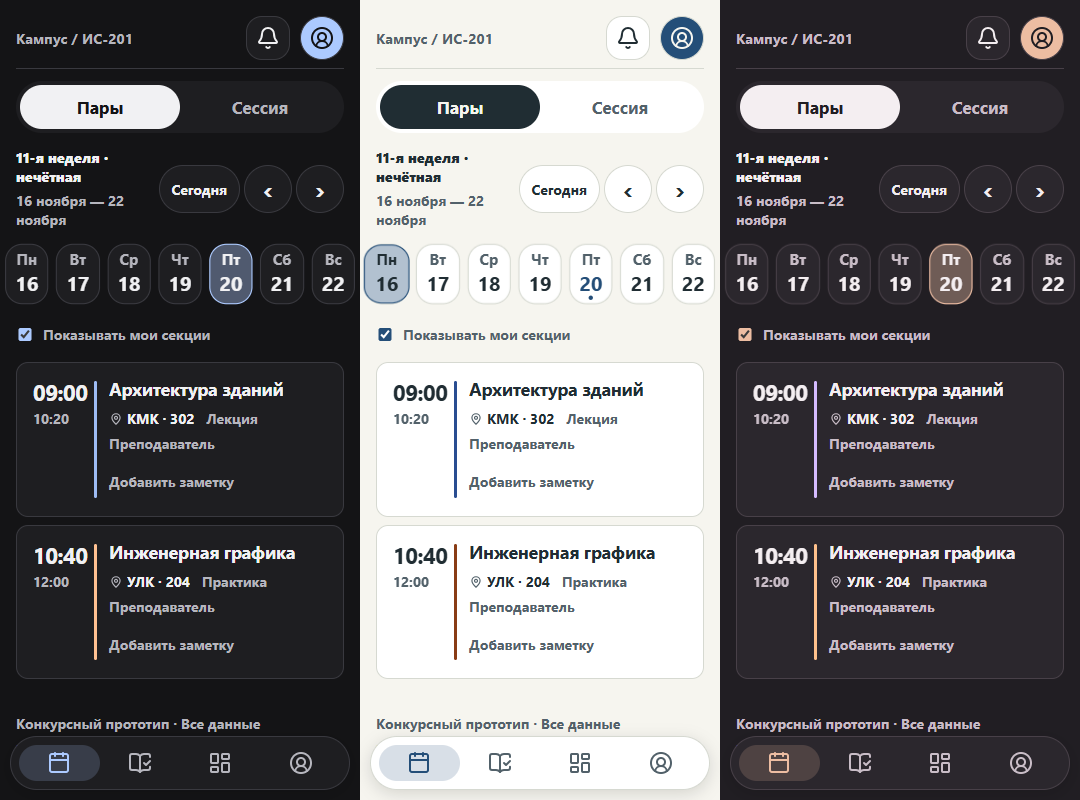
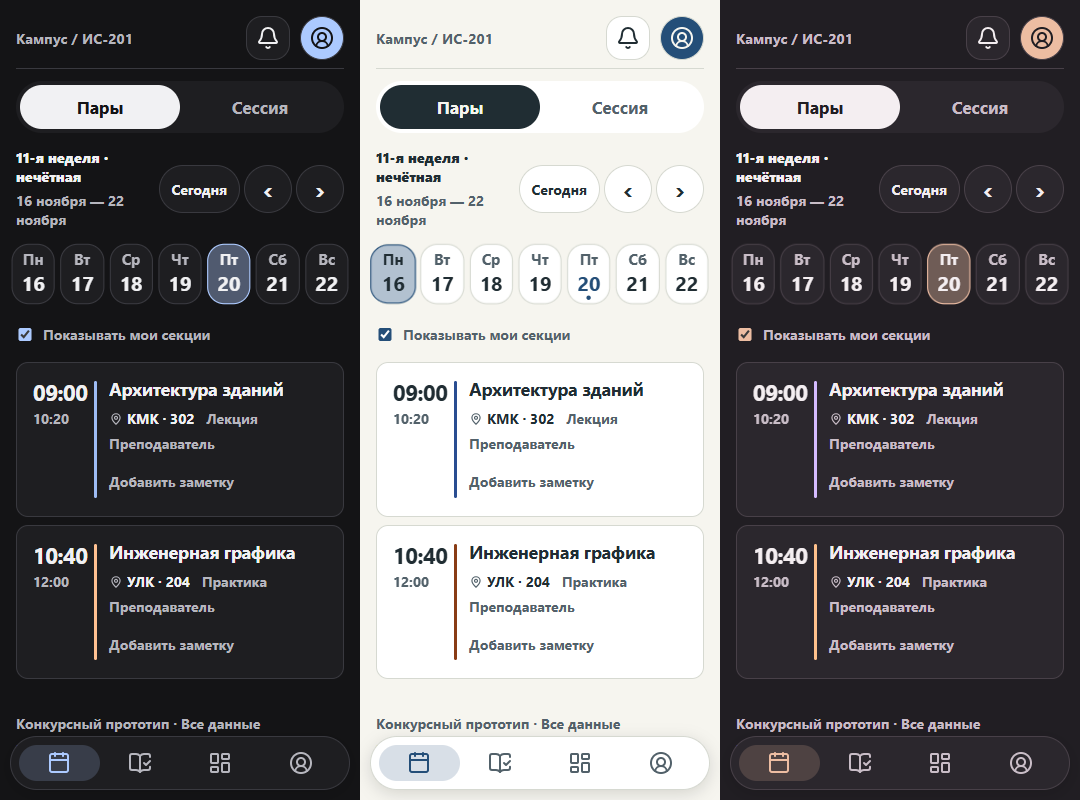
Добавить боковые отступы у календаря на телефонах

diff --git a/public/style.css b/public/style.css
@@ -633,7 +633,12 @@ h1, h2, h3, .service-copy strong, .day strong { font-weight:700; }
   .extras-directory .services-grid .service-card:hover { border-color: var(--accent); }
 }
 @media (max-width: 720px) {
-  .days { --day-gap: 3px; --day-radius: 16px; }
+  .days {
+    --day-gap: 1px;
+    --day-radius: 16px;
+    /* Six narrower gaps free up 6px at each end without resizing the dates. */
+    padding-inline: 6px;
+  }
   .extras-directory .services-grid { gap: 10px; }
   .extras-directory .services-grid :is(.service-card, .service-card:last-child:nth-child(odd)) { padding: 13px; }
 }
